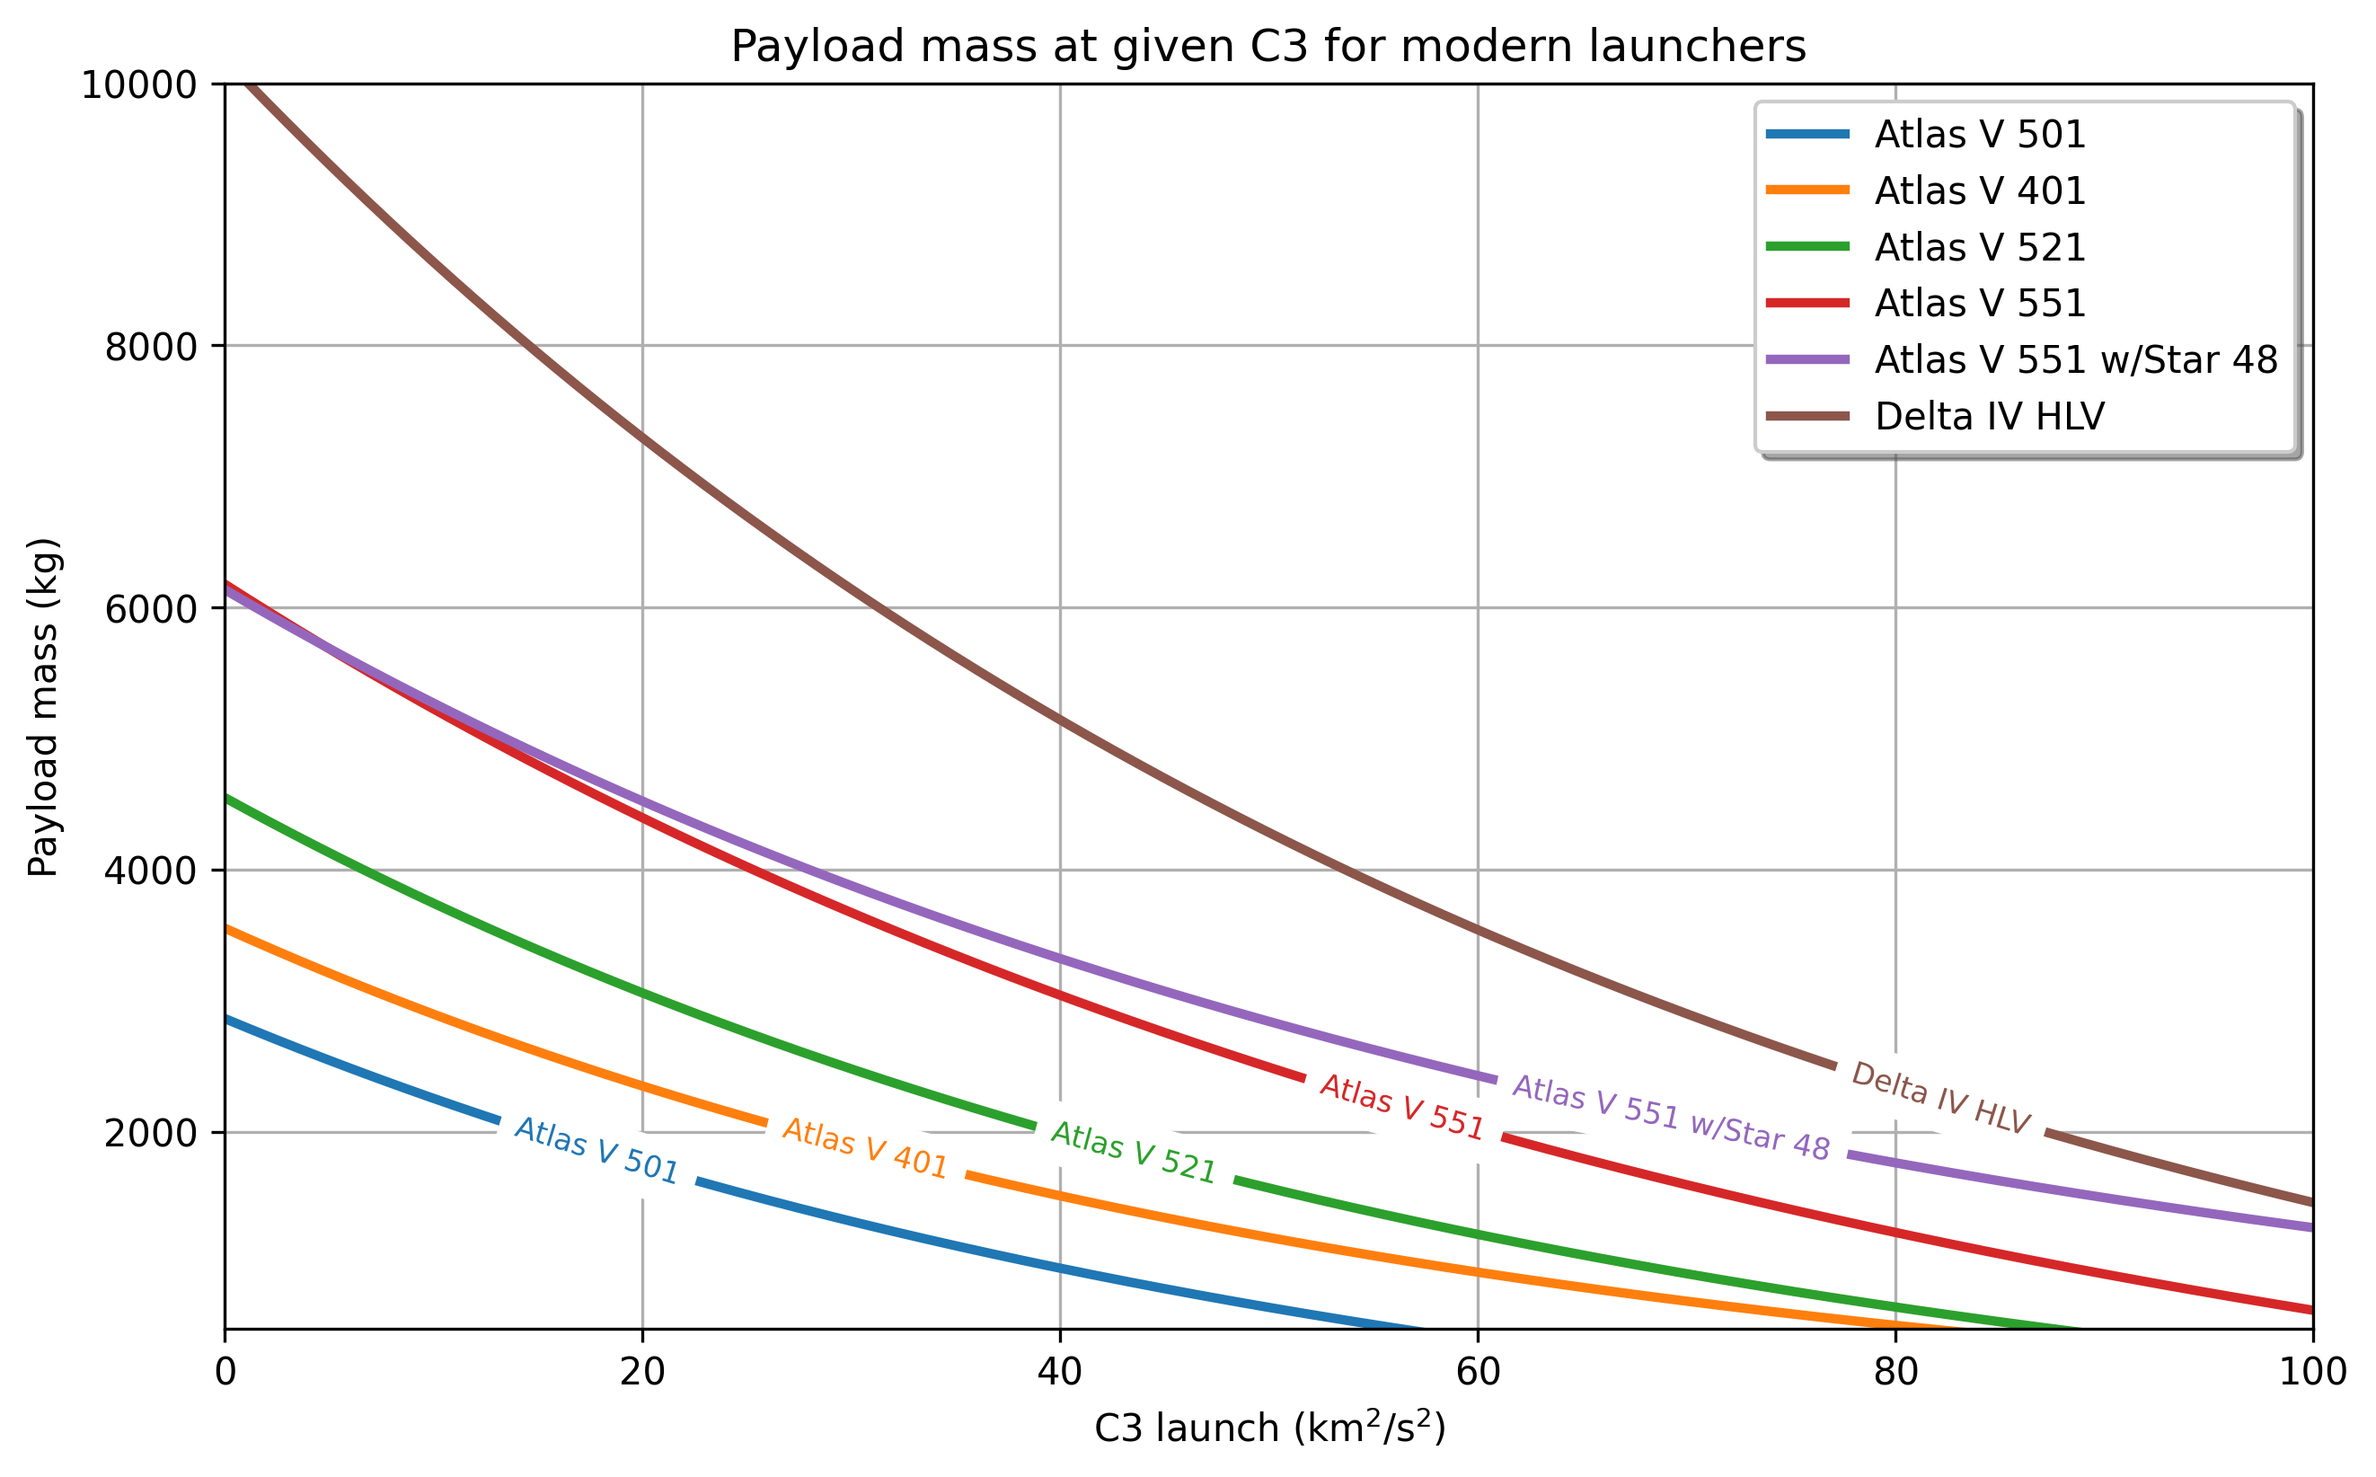
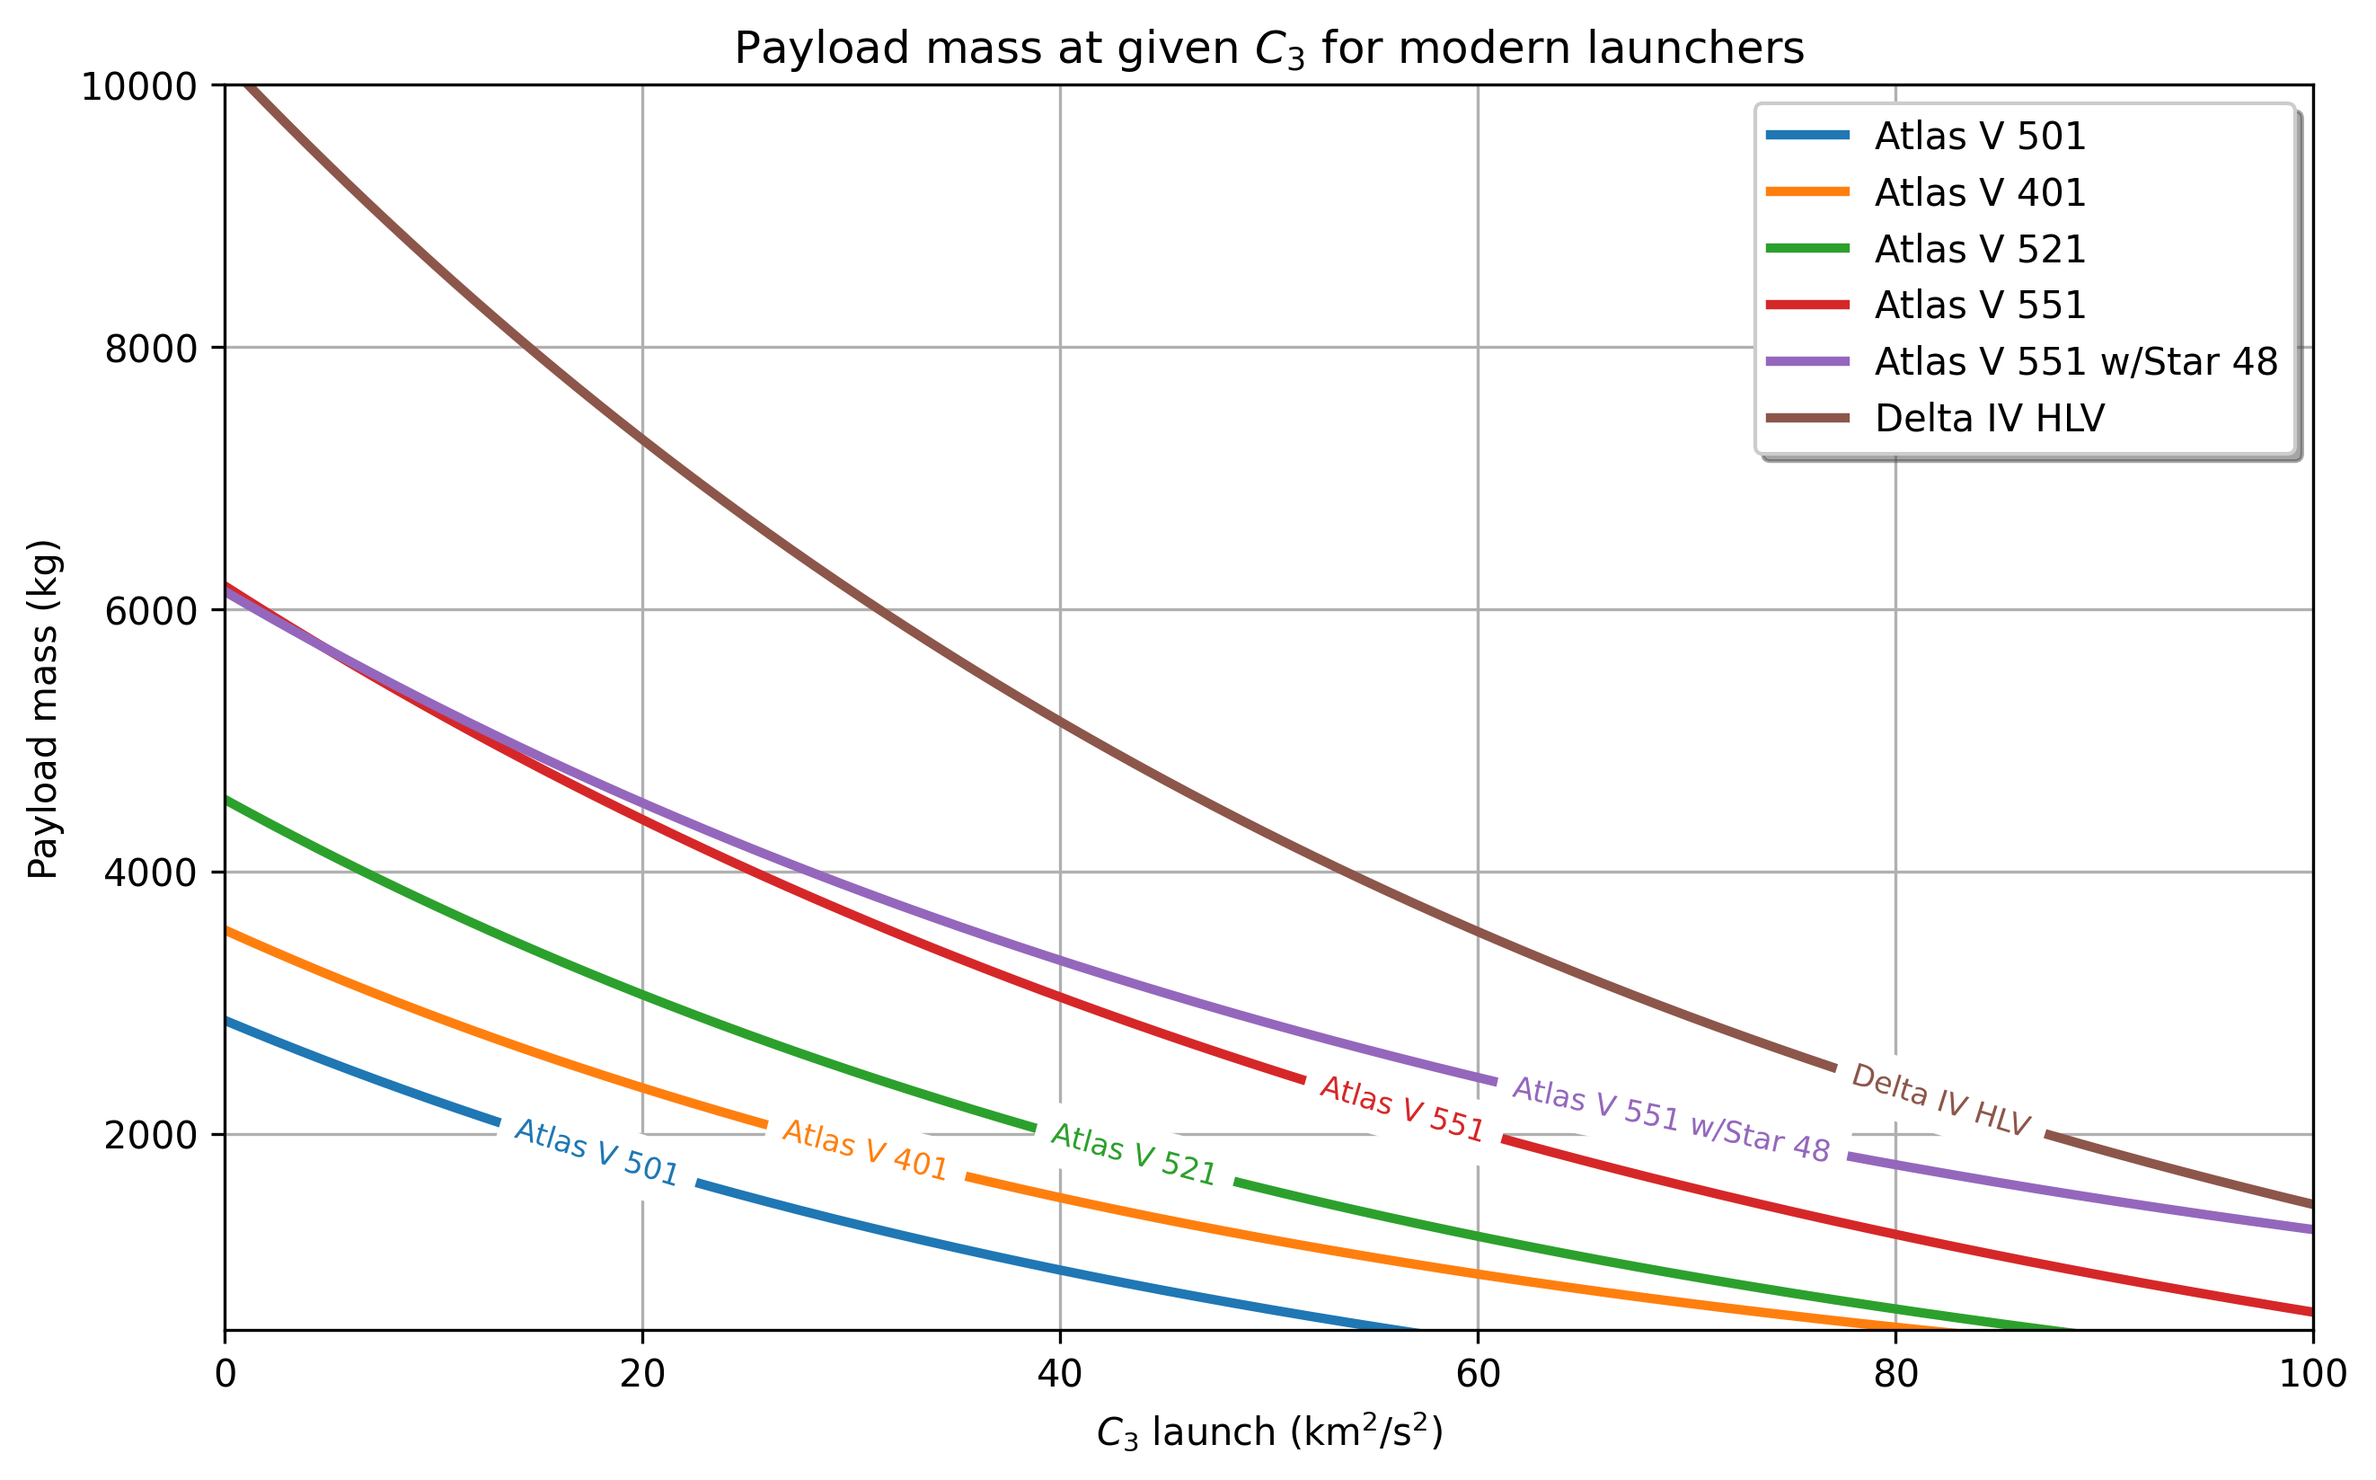
fix: issues and bugs

diff --git a/src/03_direct/optimum_transfer.tex b/src/03_direct/optimum_transfer.tex
@@ -35,7 +35,8 @@ in table \ref{tab:oumuamua-direct-transfer-optimum}.
   \includegraphics[width=\textwidth]{static/oumuamua/direct-detailed-porkchop-tof.png}
   \caption[Detailed porkchop showing the optimum transfer for
     1I/'Oumuamua with the time of flight.]{Detailed porkchop showing the optimum transfer for
-    1I/'Oumuamua. A region close to 200 km$^2$/s$^2$ is found. Escape
+    1I/'Oumuamua. The optimum transfer point is represented by a black dot
+        with a red cross. A region close to 200 km$^2$/s$^2$ is found. Escape
     velocity from Earth is considered too.
   }
   \label{fig:oumuamua-optimum-porkchop}
@@ -47,7 +48,8 @@ in table \ref{tab:oumuamua-direct-transfer-optimum}.
   \caption[Detailed porkchop showing the optimum transfer for
     1I/'Oumuamua with the arrival velocity.]{Detailed porkchop showing the
     optimum transfer for 1I/'Oumuamua with isolines for the arrival
-    velocity.}
+    velocity. The optimum transfer point is represented by a black dot
+        with a red cross.}
   \label{fig:oumuamua-optimum-porkchop-avl}
 \end{figure}
 
@@ -115,7 +117,8 @@ the interloper, reducing the required energy for the transfer.
   \caption[Front view of the direct optimum transfer orbit from Earth to 1I/'Oumuamua]{
     Front view of the direct optimum transfer orbit from Earth to 1I/'Oumuamua.
     The inclination of the orbit is very low, maximizing the kinetic energy
-    provided by the Earth.
+        provided by the Earth. Legend shared with figure
+        \ref{fig:optimum_oumuamua_orbit_xy}.
   }
   \label{fig:optimum_oumuamua_orbit_yz}
 \end{figure}
@@ -125,7 +128,8 @@ the interloper, reducing the required energy for the transfer.
   \includegraphics[width=0.95\textwidth]{static/oumuamua/direct-optimum-transfer-yz.png}
   \caption[Side view of the direct optimum transfer orbit from Earth to 1I/'Oumuamua]{
     Side view of the direct optimum transfer orbit from Earth to 1I/'Oumuamua.
-    This view shows again the low inclination of the transfer orbit.}
+    This view shows again the low inclination of the transfer orbit. Legend
+        shared with figure \ref{fig:optimum_oumuamua_orbit_xy}.}
   \label{fig:optimum_oumuamua_orbit_xz}
 \end{figure}
 
@@ -144,8 +148,9 @@ to the arrival velocity, which is shown in figure
   \includegraphics[width=\textwidth]{static/borisov/direct-detailed-porkchop-tof.png}
   \caption[Detailed porkchop showing the optimum transfer for
     2I/Borisov with the time of flight.]{Detailed porkchop showing the
-    optimum transfer for 2I/Borisov with isolines for the time of flight. A
-    region below 50 km$^2$/s$^2$ is found, similarly to the case of
+    optimum transfer for 2I/Borisov with isolines for the time of flight. 
+    The optimum transfer point is represented by a black dot with a red cross.
+    A region below 50 km$^2$/s$^2$ is found, similarly to the case of
     1I/'Oumuamua.}
   \label{fig:borisov-optimum-transfer-porkchop-tof}
 \end{figure}
@@ -155,8 +160,8 @@ to the arrival velocity, which is shown in figure
   \includegraphics[width=\textwidth]{static/borisov/direct-detailed-porkchop-avl.png}
   \caption[Detailed porkchop showing the optimum trasnfer for 2I/Borisov
     with the arrival velocity]{Detailed porkchop showing the optimum transfer for
-    2I/Borisov with isolines for the arrival velocity. Despite having found
-    an optimum transfer, the arrival velocity is very high.}
+    2I/Borisov with isolines for the arrival velocity. The optimum transfer point is represented by a black dot with a red cross.
+    Despite having found an optimum transfer, the arrival velocity is very high.}
   \label{fig:borisov-optimum-transfer-porkchop-avl}
 \end{figure}
 
@@ -229,7 +234,7 @@ inclination, which allows the spacecraft to benefit from Earth's velocity.
   \caption[Front view of the direct optimum transfer orbit from Earth to 2I/Borisov]{
     Front view of the direct optimum transfer orbit from Earth to 2I/Borisov.
     The inclination of the orbit is very low, maximizing the kinetic energy
-    provided by the Earth.
+    provided by the Earth. Legend shared with figure \ref{fig:optimum_borisov_orbit_xy}.
   }
   \label{fig:optimum_borisov_orbit_yz}
 \end{figure}
@@ -239,6 +244,8 @@ inclination, which allows the spacecraft to benefit from Earth's velocity.
   \includegraphics[width=0.95\textwidth]{static/borisov/direct-optimum-transfer-yz.png}
   \caption[Side view of the direct optimum transfer orbit from Earth to 2I/Borisov]{
     Side view of the direct optimum transfer orbit from Earth to 2I/Borisov.
-    This view shows again the low inclination of the transfer orbit.}
+    This view shows again the low inclination of the transfer orbit. Legend
+    shared with figure \ref{fig:optimum_borisov_orbit_xy}.
+  }
   \label{fig:optimum_borisov_orbit_xz}
 \end{figure}

diff --git a/src/01_background/discovered_objects.tex b/src/01_background/discovered_objects.tex
@@ -39,7 +39,8 @@ different perspectives.
   \caption[Front view of the orbit of 1I/'Oumuamua through the solar system]{
     Front view of the orbit of 1I/'Oumuamua through the solar system at the time when it was
     discovered. This perspective allows to visualize the high inclination of
-    1I/'Oumuamua as it passes through the solar system.}
+    1I/'Oumuamua as it passes through the solar system. Legend shared with
+        figure \ref{fig:oumuamua_orbit}.}
   \label{fig:oumuamua_orbit_xz}
 \end{figure}
 
@@ -50,7 +51,8 @@ different perspectives.
   {
     Side view of the orbit of 1I/'Oumuamua through the solar system at the time when it was
     discovered. This perspective allows to visualize the retrograde motion of
-    1I/'Oumuamua as it passes through the solar system.
+    1I/'Oumuamua as it passes through the solar system. Legend shared with
+        figure \ref{fig:oumuamua_orbit}.
   }
   \label{fig:oumuamua_orbit_yz}
 \end{figure}
@@ -148,7 +150,8 @@ at the moment of its discovery.
   \caption[Front view of the orbit of 2I/Borisov through the solar system]{
     Front view of the orbit of 2I/Borisov through the solar system. Despite the
     apparent close distance with the Martian planet, this view shows that both
-    celestial objects were actually far from each other.}
+    celestial objects were actually far from each other. Legend shared with
+        figure \ref{fig:borisov_orbit}.}
   \label{fig:borisov_orbit_xz}
 \end{figure}
 
@@ -158,7 +161,9 @@ at the moment of its discovery.
   \caption[Side view of the orbit of 2I/Borisov through the solar system]{
     Side view of the orbit of 2I/Borisov through the solar system. Even if this
     view suggests that 2I/Borisov could have a high inclination, the value for this
-    parameter was not as high as the one for the first discovered interloper.}
+    parameter was not as high as the one for the first discovered interloper.
+        Legend shared with figure \ref{fig:borisov_orbit}.
+  }
   \label{fig:borisov_orbit_yz}
 \end{figure}
 
@@ -199,7 +204,7 @@ carbon monoxide (CO) gas than water (H$_2$O), with abundances exceeding 173\%,
 surpassing typical cometary compositions within our solar system by over
 threefold. Additionally, hydrogen cyanide (HCN) was also detected in the gas
 expelled by the comet, with levels comparable to those observed in other solar
-system comets \cite{bodewits2020}.
+system comets, see \cite{bodewits2020}.
 
 \begin{figure}[H]
   \centering
@@ -227,10 +232,10 @@ Two confirmed interstellar meteors have been identified so far:
 \begin{itemize}
   \item CNEOS 2014-01-08 (also known as IM1 or the Manus Island fireball), which
         was detected in 2014 and confirmed as interstellar in 2022 by the U.S. Space
-        Command, see \cite{siraj2022}
+        Command, see \cite{siraj2022}.
   \item CNEOS 2017-03-09 (also known as IM2), which was discovered in 2022 and is
         estimated to have been 10 times more massive than IM1, around 1 meter in
-        size, see \cite{eloy2022characterizatioa}.
+        size, see \cite{eloy2022char}.
 \end{itemize}
 
 Both IM1 and IM2 were moving at extremely high speeds relative to the local

diff --git a/src/04_alternate/lagrangian_analysis.tex b/src/04_alternate/lagrangian_analysis.tex
@@ -164,7 +164,9 @@ between L2 and 2I/Borisov.
   \includegraphics[width=\textwidth]{static/borisov/l2-direct-detailed-porkchop-tof.png}
   \caption[Detailed porkchop showing the optimum transfer for
     L2 to 2I/Borisov with the time of flight.]{Detailed porkchop showing the optimum transfer for
-    L2 to 2I/Borisov. A point under 50 km$^2$/s$^2$ is found, highly
+    L2 to 2I/Borisov. The optimum transfer point is represented by a black dot
+        with a red cross.
+ A point under 50 km$^2$/s$^2$ is found, highly
     reducing the launch cost from this Lagrange point.
   }
   \label{fig:l2-borisov-optimum-porkchop}
@@ -203,9 +205,7 @@ arrival velocity is still high. Launch and arrival dates are shown in table
   \caption[Optimum transfer orbit for a direct transfer between L2 and
     2I/Borisov.]{Optimum transfer orbit for a direct transfer between
     L2 and 2I/Borisov. The energy includes the required impulse for
-    escaping the L2 point and for performing a targeting maneuver. The optimum transfer point is represented by a black dot
-        with a red cross.
-}
+    escaping the L2 point and for performing a targeting maneuver.}
   \label{tab:l2-borisov-direct-transfer-optimum}
 \end{table}
 

diff --git a/src/03_direct/intro.tex b/src/03_direct/intro.tex
@@ -4,9 +4,9 @@
 This chapter presents the direct transfer analysis performed on the two
 discovered interstellar objects, 1I/'Oumuamua and 2I/Borisov. The algorithm used
 is the one devised by \cite{izzo2015}, as it is proven to be more accurate and
-faster than other classical algorithms \cite{martinez2021}. The ephemerides for
-1I/'Omuaumua and 2I/Borisov are obtained from JPL Horizons API service. These
-are propagated under the two-body assumption to simplify the analysis.
+faster than other classical algorithms, see \cite{martinez2021}. The ephemerides
+for 1I/'Omuaumua and 2I/Borisov are obtained from JPL Horizons API service.
+These are propagated under the two-body assumption to simplify the analysis.
 Propagation starts on January 1, 2016 and ends on January 1, 2035.
 
 The analysis includes porkchop plots for quickly visualizing different mission

diff --git a/src/01_background/definition.tex b/src/01_background/definition.tex
@@ -10,8 +10,7 @@ through interstellar medium (ISM) without being gravitationally bound to a star.
 Eventually, ISOs can pass through a planetary system, such as the solar system.
 Some of them may be even captured, as suggested by \cite{napier2021}.
 
-ISOs are also referred to as interstellar interlopers \customcite{Jewitt and
-Seligman 2023}{jewitt2022}, as they
+ISOs are also referred to as interstellar interlopers \cite{jewitt2022}, as they
 can be seen as intruders travelling through a different system from their
 original one.
 

diff --git a/main.tex b/main.tex
@@ -9,7 +9,7 @@
 % Bibliography setup
 % Style: https://www.overleaf.com/learn/latex/Biblatex_bibliography_styles
 % Cite style: https://www.overleaf.com/learn/latex/Biblatex_citation_styles
-\usepackage[backend=biber, style=verbose, citestyle=authoryear, sorting=ynt]{biblatex}
+\usepackage[backend=biber, style=apa, citestyle=authoryear, sorting=ynt]{biblatex}
 
 % Define how author names are formatted in citations
 \DeclareNameAlias{sortname}{family-given}

diff --git a/src/02_targeting/mission_constraints.tex b/src/02_targeting/mission_constraints.tex
@@ -103,4 +103,4 @@ However, tracking a small object in deep space is a challenging task. For
 example, 1I/'Oumuamua did not presented any cometary activity, having an absolute
 magnitude of $M = 22$ (JPL SBDB) which made it difficult to observe and track
 it. On the other hand, 2I/Borisov exhibited a coma, making it more visible by
-having a magnitude of $M = 16$, see \cite{jewitt2020}.
+having a magnitude of $M = 16$, see \cite{jewitt2020} .

diff --git a/bin/mass_vs_c3.py b/bin/mass_vs_c3.py
@@ -50,8 +50,8 @@ def main():
         
         ax.plot(c3_interp, payload_interp, label=rocket, lw=2.5)
 
-    ax.set_title('Payload mass at given C3 for modern launchers')
-    ax.set_xlabel(r'C3 launch (km$^2$/s$^2$)')
+    ax.set_title(r'Payload mass at given $C_3$ for modern launchers')
+    ax.set_xlabel(r'$C_3$ launch (km$^2$/s$^2$)')
     ax.set_ylabel('Payload mass (kg)')
     ax.set_xlim(0, 100)
     ax.set_ylim(500, 10000)

diff --git a/src/03_direct/results.tex b/src/03_direct/results.tex
@@ -14,4 +14,4 @@ ecliptic.
 
 Bibliography proofs that the optimum direct transfer for 2I/Borisov is the same as
 the one computed by \cite{hibberd2021}. However, the optimum direct transfer for
-'Oumuamua computed in this work could expand the research from \cite{hein2018}.
+1I/'Oumuamua computed in this work could expand the research from \cite{hein2018}.

diff --git a/tex/preface.tex b/tex/preface.tex
@@ -23,6 +23,6 @@ and scientific inquiry.
 
 
 \vspace{4cm}
-\textbf{Keywords:} Interlopers, transfer orbits, porkchop plots, Lagrange points,
+\textbf{Keywords:} Interstellar interlopers, transfer orbits, porkchop plots, Lagrange points,
 gravity-assisted maneuvers, interstellar missions, surveillance research,
 mission design, celestial exploration
